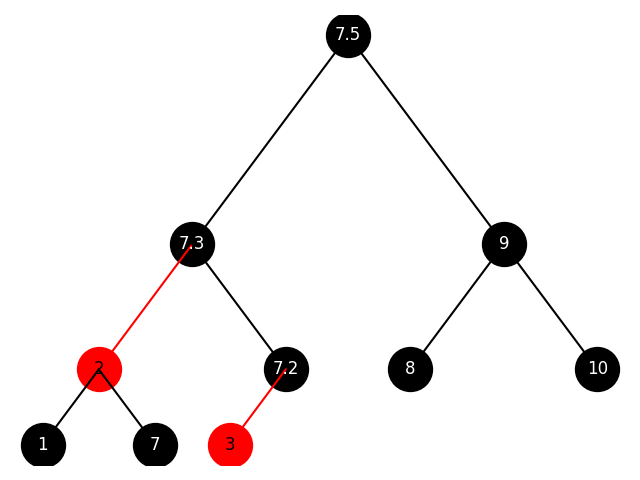
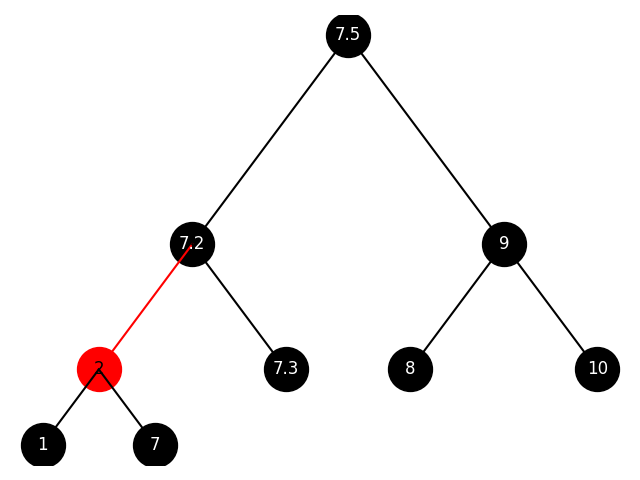
fix errors

Changed region(s): [[0.3125, 0.8438, 0.4062, 0.9688], [0.4062, 0.7812, 0.4375, 0.8438], [0.4375, 0.75, 0.4688, 0.7812]]

diff --git a/RBTree.py b/RBTree.py
@@ -148,7 +148,8 @@ class Node(object):
         def switch_to_siblings(node: Node, direction):
             node.__swap(node.parent) if direction != 'mr' else node.__swap(node.parent.parent)
             if direction == 'lm' or direction == 'mr':
-                node.__swap(node.right)
+                node.__swap(node.right.left)
+                node.__swap(node.parent)
             elif direction == 'ml':
                 node.__swap(node.left)
             elif direction == 'rm':
@@ -166,8 +167,8 @@ class Node(object):
                     node.left.__graft(node.parent, True)
                     node.left.color = False
                     return switch_node, direction
-            elif node.left:
-                node.left.__graft(node.parent, True)
+            else:
+                node.left.__graft(node.parent, node.__is_left())
                 node.left.color = False
             return True
 

diff --git a/README.md b/README.md
@@ -41,11 +41,11 @@
 &emsp;&emsp;以删除`节点3`为例。节点3的相邻节点`节点(7.2-7.3)`为`3-节点`。
 
 * 将`节点3`与`节点7`交换(左上)。
-* 将`节点3`与`节点7.3`交换(右上)。
-* 将`节点7.2`嫁接到`节点7.3`右侧并改变其颜色(左下)。
+* 将`节点3`与`节点7.2`交换(右上)。
+* 将`节点7.3`嫁接到`节点7.2`右侧并改变其颜色(左下)。
 
 <img src="Images/Case A 1.png" width="40%">  <img src="Images/Case A 2.png" width="40%">  
-<img src="Images/Case A 4.png" width="40%">
+<img src="Images/Case A 3.png" width="40%">
 
 ### Case B
 &emsp;&emsp;对于此类情况，核心思想为：
